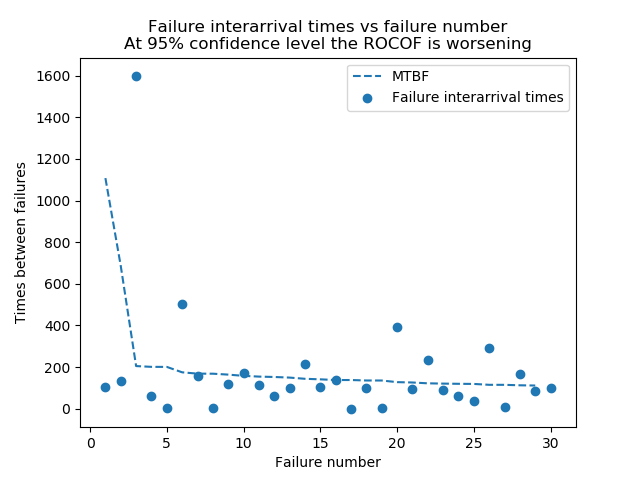
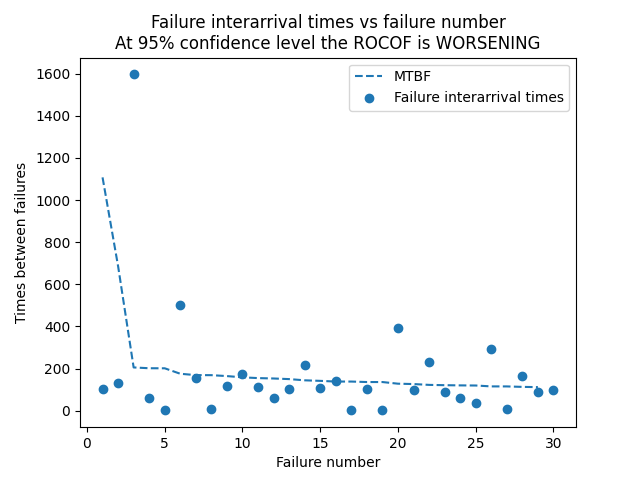
updating docs and minor bugfix in ROCOF

diff --git a/reliability/Repairable_systems.py b/reliability/Repairable_systems.py
@@ -16,7 +16,7 @@ from scipy import integrate
 import pandas as pd
 import scipy.stats as ss
 from scipy.optimize import curve_fit
-from reliability.Utils import colorprint
+from reliability.Utils import colorprint, round_to_decimals
 
 
 class reliability_growth:
@@ -33,7 +33,7 @@ class reliability_growth:
         Uses the Duane method to find the instantaneous MTBF and produce a reliability growth plot.
 
         Inputs:
-        times - array of list of failure times
+        times - array or list of failure times
         xmax - xlim to plot up to. Default is 1.5*max(times)
         target_MTBF - specify the target MTBF to obtain the total time on test required to reach it.
         show_plot - True/False. Defaults to true. Other keyword arguments are passed to the plot for style
@@ -83,9 +83,11 @@ class reliability_growth:
         self.Beta = beta
 
         if print_results is True:
-            print(
-                "Reliability growth model parameters:\nlambda:", Lambda, "\nbeta:", beta
+            colorprint(
+                "Reliability growth model parameters:", bold=True, underline=True
             )
+            print("lambda:", Lambda)
+            print("beta:", beta)
 
         if target_MTBF is not None:
             t_target = (target_MTBF * Lambda * beta) ** (1 / (1 - beta))
@@ -196,6 +198,9 @@ class optimal_replacement_time:
         ORT_rounded = round(ORT, 2)
 
         if print_results is True:
+            colorprint(
+                "Results from optimal_replacement_time:", bold=True, underline=True
+            )
             if q == 0:
                 print("Cost model assuming as good as new replacement (q=0):")
             else:
@@ -329,36 +334,15 @@ class ROCOF:
             + str(round(-z_crit, 2))
             + ")"
         )
-        if print_results is True:
-            print(results_str)
 
         x = np.arange(1, len(ti) + 1)
         if U < z_crit:
-            if print_results is True:
-                print(
-                    "At",
-                    int(CI * 100),
-                    "% confidence level the ROCOF is IMPROVING. Assume NHPP.",
-                )
             B = len(ti) / (sum(np.log(tn / np.array(tc))))
             L = len(ti) / (tn ** B)
             self.trend = "improving"
             self.Beta_hat = B
             self.Lambda_hat = L
-            self.ROCOF = "ROCOF is not provided when trend is not constant. Use Beta_hat and Lambda_hat to calculate."
-            if L < 1:
-                L_rounded = round(
-                    L, -int(np.floor(np.log10(abs(L)))) + 3
-                )  # this rounds to exactly 4 sigfigs no matter the number of preceding zeros
-            else:
-                L_rounded = round(L, 2)
-            if print_results is True:
-                print(
-                    "ROCOF assuming NHPP has parameters: Beta_hat =",
-                    round(B, 3),
-                    ", Lambda_hat =",
-                    L_rounded,
-                )
+            self.ROCOF = "ROCOF is not provided when trend is not constant. Use Beta_hat and Lambda_hat to calculate ROCOF at a given time t."
             _rocof = L * B * tc ** (B - 1)
             MTBF = np.ones_like(tc) / _rocof
             if test_end is not None:
@@ -366,31 +350,12 @@ class ROCOF:
             else:
                 x_to_plot = x[:-1]
         elif U > -z_crit:
-            if print_results is True:
-                print(
-                    "At",
-                    int(CI * 100),
-                    "% confidence level the ROCOF is WORSENING. Assume NHPP.",
-                )
             B = len(ti) / (sum(np.log(tn / np.array(tc))))
             L = len(ti) / (tn ** B)
             self.trend = "worsening"
             self.Beta_hat = B
             self.Lambda_hat = L
-            self.ROCOF = "ROCOF is not provided when trend is not constant. Use Beta_hat and Lambda_hat to calculate."
-            if L < 1:
-                L_rounded = round(
-                    L, -int(np.floor(np.log10(abs(L)))) + 3
-                )  # this rounds to exactly 4 sigfigs no matter the number of preceding zeros
-            else:
-                L_rounded = round(L, 2)
-            if print_results is True:
-                print(
-                    "ROCOF assuming NHPP has parameters: Beta_hat =",
-                    round(B, 3),
-                    ", Lambda_hat =",
-                    L_rounded,
-                )
+            self.ROCOF = "ROCOF is not provided when trend is not constant. Use Beta_hat and Lambda_hat to calculate ROCOF at a given time t."
             _rocof = L * B * tc ** (B - 1)
             MTBF = np.ones_like(tc) / _rocof
             if test_end is not None:
@@ -398,27 +363,62 @@ class ROCOF:
             else:
                 x_to_plot = x[:-1]
         else:
-            if print_results is True:
-                print(
-                    "At",
-                    int(CI * 100),
-                    "% confidence level the ROCOF is CONSTANT. Assume HPP.",
-                )
-            rocof = n / sum(ti)
+            rocof = (n + 1) / sum(ti)
             self.trend = "constant"
             self.ROCOF = rocof
             self.Beta_hat = "not calculated when trend is constant"
             self.Lambda_hat = "not calculated when trend is constant"
             x_to_plot = x
             MTBF = np.ones_like(x_to_plot) / rocof
-            if rocof < 1:
-                rocof_rounded = round(
-                    rocof, -int(np.floor(np.log10(abs(rocof)))) + 1
-                )  # this rounds to exactly 2 sigfigs no matter the number of preceding zeros
+
+        CI_rounded = CI * 100
+        if CI_rounded % 1 == 0:
+            CI_rounded = int(CI * 100)
+
+        if print_results is True:
+            colorprint("Results from ROCOF analysis:", bold=True, underline=True)
+            print(results_str)
+            if U < z_crit:
+                print(
+                    str(
+                        "At "
+                        + str(CI_rounded)
+                        + "% confidence level the ROCOF is IMPROVING. Assume NHPP."
+                    )
+                )
+                print(
+                    "ROCOF assuming NHPP has parameters: Beta_hat =",
+                    round_to_decimals(B, 3),
+                    ", Lambda_hat =",
+                    round_to_decimals(L, 4),
+                )
+            elif U > -z_crit:
+                print(
+                    str(
+                        "At "
+                        + str(CI_rounded)
+                        + "% confidence level the ROCOF is WORSENING. Assume NHPP."
+                    )
+                )
+                print(
+                    "ROCOF assuming NHPP has parameters: Beta_hat =",
+                    round_to_decimals(B, 3),
+                    ", Lambda_hat =",
+                    round_to_decimals(L, 4),
+                )
             else:
-                rocof_rounded = round(rocof, 2)
-            if print_results is True:
-                print("ROCOF assuming HPP is", rocof_rounded, "failures per unit time.")
+                print(
+                    str(
+                        "At "
+                        + str(CI_rounded)
+                        + "% confidence level the ROCOF is CONSTANT. Assume HPP."
+                    )
+                )
+                print(
+                    "ROCOF assuming HPP is",
+                    round_to_decimals(rocof, 4),
+                    "failures per unit time.",
+                )
 
         if show_plot is True:
             plt.plot(x_to_plot, MTBF, linestyle=ls, label="MTBF")
@@ -427,9 +427,9 @@ class ROCOF:
             plt.xlabel("Failure number")
             title_str = str(
                 "Failure interarrival times vs failure number\nAt "
-                + str(int(CI * 100))
+                + str(CI_rounded)
                 + "% confidence level the ROCOF is "
-                + self.trend
+                + self.trend.upper()
             )
             plt.title(title_str)
             plt.legend()

diff --git a/reliability/Utils.py b/reliability/Utils.py
@@ -2949,7 +2949,6 @@ def least_squares(dist, failures, right_censored, method="RRX", force_shape=None
         ylin = -np.log(1 - y)
         slope, _ = linear_regression(xlin, ylin, x_intercept=0, RRX_or_RRY="RRX")
         LS_Lambda = slope
-        LS_Lambda = slope
         # NLLS for Exponential_2P
         def __exponential_2P_CDF(t, Lambda, gamma):
             return 1 - np.exp(-Lambda * (t - gamma))
